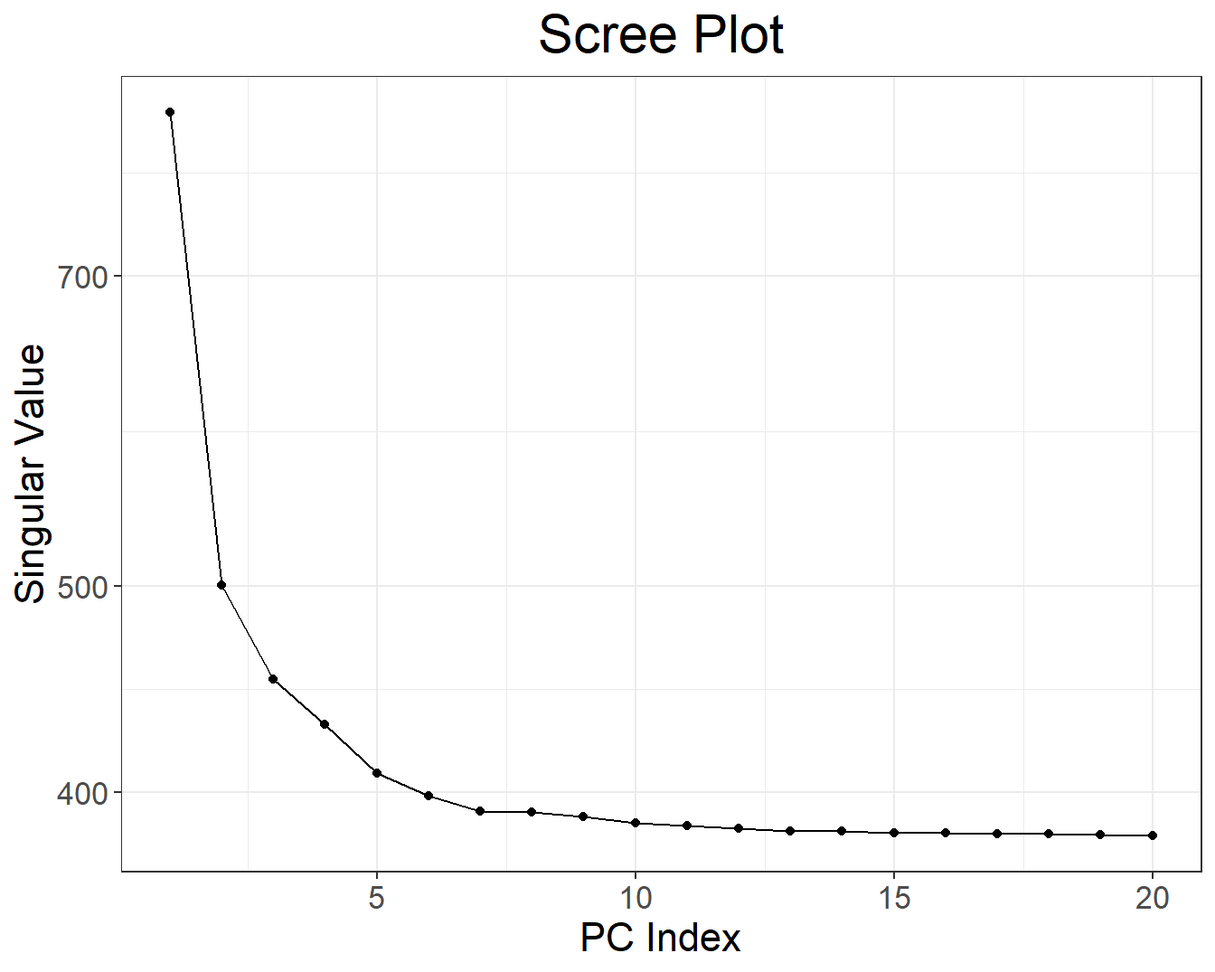
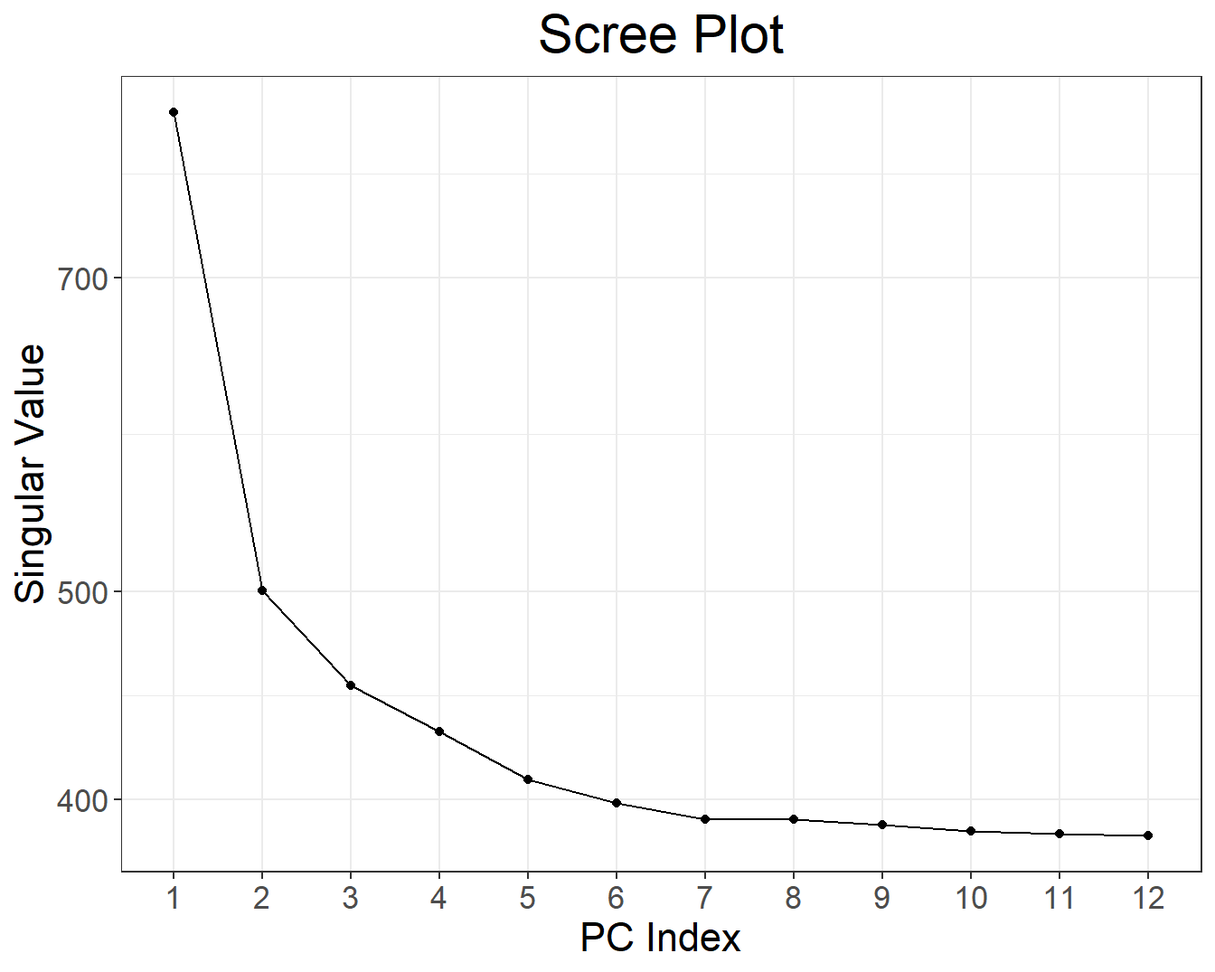
update pop struct chap

diff --git a/docs/population-structure.html b/docs/population-structure.html
@@ -184,7 +184,7 @@ div.csl-indent {
 <ul>
 <li class="chapter" data-level="2.1" data-path="inputs-and-formats.html"><a href="inputs-and-formats.html#in-bigstatsr"><i class="fa fa-check"></i><b>2.1</b> In {bigstatsr}</a></li>
 <li class="chapter" data-level="2.2" data-path="inputs-and-formats.html"><a href="inputs-and-formats.html#in-bigsnpr"><i class="fa fa-check"></i><b>2.2</b> In {bigsnpr}</a></li>
-<li class="chapter" data-level="2.3" data-path="inputs-and-formats.html"><a href="inputs-and-formats.html#getting-an-fbm-or-bigsnp-object"><i class="fa fa-check"></i><b>2.3</b> Getting an FBM or bigSNP object</a></li>
+<li class="chapter" data-level="2.3" data-path="inputs-and-formats.html"><a href="inputs-and-formats.html#getting-FBM"><i class="fa fa-check"></i><b>2.3</b> Getting an FBM or bigSNP object</a></li>
 </ul></li>
 <li class="chapter" data-level="3" data-path="working-with-an-fbm.html"><a href="working-with-an-fbm.html"><i class="fa fa-check"></i><b>3</b> Working with an FBM</a>
 <ul>
@@ -244,70 +244,147 @@ div.csl-indent {
 <p>PCA on the genotype matrix can be used to capture population structure.
 PCA can capture different kinds of structure <span class="citation">(<a href="#ref-prive2020efficient" role="doc-biblioref">Privé, Luu, Blum, McGrath, &amp; Vilhjálmsson, 2020</a>)</span>:</p>
 <ul>
-<li><p>population structure (what we want)</p></li>
-<li><p>LD structure, when there are two many correlated variants and not enough population structure (see <a href="https://privefl.github.io/bigsnpr/articles/how-to-PCA.html">this vignette</a>)</p></li>
-<li><p>relatedness structure, when there are related individuals that can cluster together in later PCs</p></li>
-<li><p>noise, basically just circles when looking at PC scores</p></li>
+<li>population structure (what we want),</li>
+<li>LD structure, when there are two many correlated variants and not enough population structure (see <a href="https://privefl.github.io/bigsnpr/articles/how-to-PCA.html">this vignette</a>),</li>
+<li>relatedness structure, when there are related individuals that can cluster together in later PCs,</li>
+<li>noise, basically just circles when looking at PC scores.</li>
 </ul>
-<p>In <span class="citation"><a href="#ref-prive2017efficient" role="doc-biblioref">Privé, Aschard, Ziyatdinov, &amp; Blum</a> (<a href="#ref-prive2017efficient" role="doc-biblioref">2018</a>)</span>, I have introduced an algorithm to compute PCA for a <code>bigSNP</code> object while accounting for the LD problem via an automatic removing of long-range LD regions.
-In <span class="citation"><a href="#ref-prive2020efficient" role="doc-biblioref">Privé, Luu, Blum, McGrath, &amp; Vilhjálmsson</a> (<a href="#ref-prive2020efficient" role="doc-biblioref">2020</a>)</span>, I have extended the package to be also able to run PCA directly on PLINK bed files with a few missing values, and investigated best practices for PCA in more detail.
-In <span class="citation"><a href="#ref-prive2021high" role="doc-biblioref">Privé et al.</a> (<a href="#ref-prive2021high" role="doc-biblioref">2022</a>)</span>, I have shown how to use PCA for ancestry inference.</p>
-<p>There are many steps to compute properly a PCA analysis, which I will try to detail in the following exercise.</p>
+<p>Population structure is the second main topic of my research work (after polygenic scores).</p>
+<ul>
+<li><p>In <span class="citation"><a href="#ref-prive2017efficient" role="doc-biblioref">Privé, Aschard, Ziyatdinov, &amp; Blum</a> (<a href="#ref-prive2017efficient" role="doc-biblioref">2018</a>)</span>, I introduced an algorithm to compute PCA for a <code>bigSNP</code> object while accounting for the LD problem by using clumping (not pruning, cf. <a href="https://privefl.github.io/bigsnpr/articles/pruning-vs-clumping.html">this vignette</a>) and an <em>automatic</em> removal of long-range LD regions.</p></li>
+<li><p>In <span class="citation"><a href="#ref-prive2020performing" role="doc-biblioref">Privé, Luu, Vilhjálmsson, &amp; Blum</a> (<a href="#ref-prive2020performing" role="doc-biblioref">2020</a>)</span>, I improved an algorithm to detect variants associated with population structure.</p></li>
+<li><p>In <span class="citation"><a href="#ref-prive2020efficient" role="doc-biblioref">Privé, Luu, Blum, McGrath, &amp; Vilhjálmsson</a> (<a href="#ref-prive2020efficient" role="doc-biblioref">2020</a>)</span>, I extended the package to be also able to run PCA directly on PLINK bed files with a small percentage of missing values, and investigated best practices for PCA in more detail.</p></li>
+<li><p>In <span class="citation"><a href="#ref-prive2021high" role="doc-biblioref">Privé et al.</a> (<a href="#ref-prive2021high" role="doc-biblioref">2022</a>)</span> and <span class="citation"><a href="#ref-prive2021using" role="doc-biblioref">Privé</a> (<a href="#ref-prive2021using" role="doc-biblioref">2022</a>)</span>, I showed how to use PCA for ancestry inference, including grouping individuals in homogeneous ancestry groups, and inferring ancestry proportions from allele frequencies only (see <a href="https://privefl.github.io/bigsnpr/articles/ancestry.html">this vignette</a>).</p></li>
+</ul>
 </div>
 <div id="exo-pca" class="section level2 hasAnchor" number="5.2">
 <h2><span class="header-section-number">5.2</span> Exercise: population structure<a href="population-structure.html#exo-pca" class="anchor-section" aria-label="Anchor link to header"></a></h2>
-<p><strong>You can find another example in <a href="https://privefl.github.io/bigsnpr/articles/bedpca.html">this vignette</a>.</strong></p>
+<p>There are many steps to properly perform a PCA, which I will try to detail in the following exercise.
+<strong>You can find another example in <a href="https://privefl.github.io/bigsnpr/articles/bedpca.html">this vignette</a>.</strong></p>
 <p>Let us reuse the data prepared in <a href="preprocessing.html#exo-preprocessing">4.3</a>.</p>
-<p>First, let’s get an idea of the relatedness in the data using</p>
-<div class="sourceCode" id="cb48"><pre class="sourceCode r"><code class="sourceCode r"><span id="cb48-1"><a href="population-structure.html#cb48-1" aria-hidden="true" tabindex="-1"></a><span class="fu">library</span>(bigsnpr)</span>
-<span id="cb48-2"><a href="population-structure.html#cb48-2" aria-hidden="true" tabindex="-1"></a>plink2 <span class="ot">&lt;-</span> <span class="fu">download_plink2</span>(<span class="st">&quot;tmp-data&quot;</span>)</span>
-<span id="cb48-3"><a href="population-structure.html#cb48-3" aria-hidden="true" tabindex="-1"></a>rel <span class="ot">&lt;-</span> <span class="fu">snp_plinkKINGQC</span>(plink2, <span class="st">&quot;tmp-data/GWAS_data_sorted_QC.bed&quot;</span>,</span>
-<span id="cb48-4"><a href="population-structure.html#cb48-4" aria-hidden="true" tabindex="-1"></a>                       <span class="at">thr.king =</span> <span class="dv">2</span><span class="sc">^-</span><span class="fl">4.5</span>, <span class="at">make.bed =</span> <span class="cn">FALSE</span>, <span class="at">ncores =</span> <span class="fu">nb_cores</span>())</span></code></pre></div>
-<div class="sourceCode" id="cb49"><pre class="sourceCode r"><code class="sourceCode r"><span id="cb49-1"><a href="population-structure.html#cb49-1" aria-hidden="true" tabindex="-1"></a><span class="fu">hist</span>(<span class="fu">log2</span>(rel<span class="sc">$</span>KINSHIP), <span class="st">&quot;FD&quot;</span>)</span></code></pre></div>
+<p>First, let us get an idea of the relatedness in the data using</p>
+<div class="sourceCode" id="cb1"><pre class="sourceCode r"><code class="sourceCode r"><span id="cb1-1"><a href="population-structure.html#cb1-1" aria-hidden="true" tabindex="-1"></a><span class="fu">library</span>(bigsnpr)</span></code></pre></div>
+<pre><code>#&gt; Loading required package: bigstatsr</code></pre>
+<div class="sourceCode" id="cb3"><pre class="sourceCode r"><code class="sourceCode r"><span id="cb3-1"><a href="population-structure.html#cb3-1" aria-hidden="true" tabindex="-1"></a>(NCORES <span class="ot">&lt;-</span> <span class="fu">nb_cores</span>())</span>
+<span id="cb3-2"><a href="population-structure.html#cb3-2" aria-hidden="true" tabindex="-1"></a>plink2 <span class="ot">&lt;-</span> <span class="fu">download_plink2</span>(<span class="st">&quot;tmp-data&quot;</span>)</span>
+<span id="cb3-3"><a href="population-structure.html#cb3-3" aria-hidden="true" tabindex="-1"></a>rel <span class="ot">&lt;-</span> <span class="fu">snp_plinkKINGQC</span>(plink2, <span class="st">&quot;tmp-data/GWAS_data_sorted_QC.bed&quot;</span>,</span>
+<span id="cb3-4"><a href="population-structure.html#cb3-4" aria-hidden="true" tabindex="-1"></a>                       <span class="at">thr.king =</span> <span class="dv">2</span><span class="sc">^-</span><span class="fl">4.5</span>, <span class="at">make.bed =</span> <span class="cn">FALSE</span>, <span class="at">ncores =</span> NCORES)</span></code></pre></div>
+<div class="sourceCode" id="cb4"><pre class="sourceCode r"><code class="sourceCode r"><span id="cb4-1"><a href="population-structure.html#cb4-1" aria-hidden="true" tabindex="-1"></a><span class="fu">hist</span>(<span class="fu">log2</span>(rel<span class="sc">$</span>KINSHIP), <span class="st">&quot;FD&quot;</span>)</span></code></pre></div>
 <p><img src="popstruct_files/figure-html/unnamed-chunk-2-1.png" width="70%" style="display: block; margin: auto;" /></p>
 <div class="infobox info">
 <p>When computing relatedness with KING, it may be needed to filter out some variants that are highly associated with population structure, e.g. as performed in the UK Biobank <span class="citation">(<a href="#ref-bycroft2018uk" role="doc-biblioref">Bycroft et al., 2018</a>)</span>. [TODO: also export my code for iPSYCH]</p>
 </div>
-<div class="sourceCode" id="cb50"><pre class="sourceCode r"><code class="sourceCode r"><span id="cb50-1"><a href="population-structure.html#cb50-1" aria-hidden="true" tabindex="-1"></a>obj.bed <span class="ot">&lt;-</span> <span class="fu">bed</span>(<span class="st">&quot;tmp-data/GWAS_data_sorted_QC.bed&quot;</span>)</span>
-<span id="cb50-2"><a href="population-structure.html#cb50-2" aria-hidden="true" tabindex="-1"></a>obj.svd <span class="ot">&lt;-</span> runonce<span class="sc">::</span><span class="fu">save_run</span>(</span>
-<span id="cb50-3"><a href="population-structure.html#cb50-3" aria-hidden="true" tabindex="-1"></a>  <span class="fu">bed_autoSVD</span>(obj.bed, <span class="at">k =</span> <span class="dv">20</span>, <span class="at">ncores =</span> <span class="fu">nb_cores</span>()),</span>
-<span id="cb50-4"><a href="population-structure.html#cb50-4" aria-hidden="true" tabindex="-1"></a>  <span class="at">file =</span> <span class="st">&quot;tmp-data/PCA_GWAS_data.rds&quot;</span>)</span></code></pre></div>
+<p>Relatedness should not be a major issue here. Let us now compute PCs.</p>
+<div class="sourceCode" id="cb5"><pre class="sourceCode r"><code class="sourceCode r"><span id="cb5-1"><a href="population-structure.html#cb5-1" aria-hidden="true" tabindex="-1"></a>obj.bed <span class="ot">&lt;-</span> <span class="fu">bed</span>(<span class="st">&quot;tmp-data/GWAS_data_sorted_QC.bed&quot;</span>)</span>
+<span id="cb5-2"><a href="population-structure.html#cb5-2" aria-hidden="true" tabindex="-1"></a>obj.svd <span class="ot">&lt;-</span> runonce<span class="sc">::</span><span class="fu">save_run</span>(</span>
+<span id="cb5-3"><a href="population-structure.html#cb5-3" aria-hidden="true" tabindex="-1"></a>  <span class="fu">bed_autoSVD</span>(obj.bed, <span class="at">k =</span> <span class="dv">12</span>, <span class="at">ncores =</span> NCORES),</span>
+<span id="cb5-4"><a href="population-structure.html#cb5-4" aria-hidden="true" tabindex="-1"></a>  <span class="at">file =</span> <span class="st">&quot;tmp-data/PCA_GWAS_data.rds&quot;</span>)</span></code></pre></div>
 <pre><code>#&gt;    user  system elapsed 
-#&gt;   19.50    1.03  158.55</code></pre>
-<div class="sourceCode" id="cb52"><pre class="sourceCode r"><code class="sourceCode r"><span id="cb52-1"><a href="population-structure.html#cb52-1" aria-hidden="true" tabindex="-1"></a><span class="fu">plot</span>(obj.svd)</span></code></pre></div>
+#&gt;   19.51    1.51  145.78</code></pre>
+<div class="sourceCode" id="cb7"><pre class="sourceCode r"><code class="sourceCode r"><span id="cb7-1"><a href="population-structure.html#cb7-1" aria-hidden="true" tabindex="-1"></a><span class="fu">plot</span>(obj.svd)</span></code></pre></div>
 <p><img src="popstruct_files/figure-html/unnamed-chunk-4-1.png" width="70%" style="display: block; margin: auto;" /></p>
-<div class="sourceCode" id="cb53"><pre class="sourceCode r"><code class="sourceCode r"><span id="cb53-1"><a href="population-structure.html#cb53-1" aria-hidden="true" tabindex="-1"></a><span class="fu">plot</span>(obj.svd, <span class="at">type =</span> <span class="st">&quot;scores&quot;</span>, <span class="at">scores =</span> <span class="dv">1</span><span class="sc">:</span><span class="dv">8</span>, <span class="at">coeff =</span> <span class="fl">0.6</span>)</span></code></pre></div>
+<div class="sourceCode" id="cb8"><pre class="sourceCode r"><code class="sourceCode r"><span id="cb8-1"><a href="population-structure.html#cb8-1" aria-hidden="true" tabindex="-1"></a><span class="fu">plot</span>(obj.svd, <span class="at">type =</span> <span class="st">&quot;scores&quot;</span>, <span class="at">scores =</span> <span class="dv">1</span><span class="sc">:</span><span class="dv">12</span>, <span class="at">coeff =</span> <span class="fl">0.5</span>)</span></code></pre></div>
 <p><img src="popstruct_files/figure-html/unnamed-chunk-4-2.png" width="70%" style="display: block; margin: auto;" /></p>
-<p>There is a bit of population structure (it seems at least 6 PCs). It would be better if could get a better sense of the ancestry of these individuals; let us project this data to the 1000G data and infer ancestry as described in <span class="citation"><a href="#ref-prive2021high" role="doc-biblioref">Privé et al.</a> (<a href="#ref-prive2021high" role="doc-biblioref">2022</a>)</span>.</p>
-<div class="sourceCode" id="cb54"><pre class="sourceCode r"><code class="sourceCode r"><span id="cb54-1"><a href="population-structure.html#cb54-1" aria-hidden="true" tabindex="-1"></a>bed.ref <span class="ot">&lt;-</span> <span class="fu">bed</span>(<span class="fu">download_1000G</span>(<span class="st">&quot;tmp-data&quot;</span>))</span>
-<span id="cb54-2"><a href="population-structure.html#cb54-2" aria-hidden="true" tabindex="-1"></a>proj <span class="ot">&lt;-</span> runonce<span class="sc">::</span><span class="fu">save_run</span>(</span>
-<span id="cb54-3"><a href="population-structure.html#cb54-3" aria-hidden="true" tabindex="-1"></a>  <span class="fu">bed_projectPCA</span>(bed.ref, obj.bed, <span class="at">k =</span> <span class="dv">25</span>, <span class="at">ncores =</span> <span class="fu">nb_cores</span>()),</span>
-<span id="cb54-4"><a href="population-structure.html#cb54-4" aria-hidden="true" tabindex="-1"></a>  <span class="at">file =</span> <span class="st">&quot;tmp-data/proj-to-1000G.rds&quot;</span>)</span></code></pre></div>
-<pre><code>#&gt;    user  system elapsed 
-#&gt;   43.82    1.42  205.60</code></pre>
-<div class="sourceCode" id="cb56"><pre class="sourceCode r"><code class="sourceCode r"><span id="cb56-1"><a href="population-structure.html#cb56-1" aria-hidden="true" tabindex="-1"></a>PC.ref <span class="ot">&lt;-</span> <span class="fu">predict</span>(proj<span class="sc">$</span>obj.svd.ref)</span>
-<span id="cb56-2"><a href="population-structure.html#cb56-2" aria-hidden="true" tabindex="-1"></a>proj2 <span class="ot">&lt;-</span> proj<span class="sc">$</span>OADP_proj</span>
-<span id="cb56-3"><a href="population-structure.html#cb56-3" aria-hidden="true" tabindex="-1"></a>fam2 <span class="ot">&lt;-</span> bigreadr<span class="sc">::</span><span class="fu">fread2</span>(<span class="fu">sub_bed</span>(bed.ref<span class="sc">$</span>bedfile, <span class="st">&quot;.fam2&quot;</span>))</span></code></pre></div>
-<div class="sourceCode" id="cb57"><pre class="sourceCode r"><code class="sourceCode r"><span id="cb57-1"><a href="population-structure.html#cb57-1" aria-hidden="true" tabindex="-1"></a><span class="fu">library</span>(ggplot2)</span>
-<span id="cb57-2"><a href="population-structure.html#cb57-2" aria-hidden="true" tabindex="-1"></a><span class="fu">source</span>(<span class="st">&quot;https://raw.githubusercontent.com/privefl/paper4-bedpca/master/code/plot_grid2.R&quot;</span>)</span>
-<span id="cb57-3"><a href="population-structure.html#cb57-3" aria-hidden="true" tabindex="-1"></a><span class="fu">plot_grid2</span>(<span class="at">plotlist =</span> <span class="fu">lapply</span>(<span class="dv">1</span><span class="sc">:</span><span class="dv">9</span>, <span class="cf">function</span>(k) {</span>
-<span id="cb57-4"><a href="population-structure.html#cb57-4" aria-hidden="true" tabindex="-1"></a>  k1 <span class="ot">&lt;-</span> <span class="dv">2</span> <span class="sc">*</span> k <span class="sc">-</span> <span class="dv">1</span></span>
-<span id="cb57-5"><a href="population-structure.html#cb57-5" aria-hidden="true" tabindex="-1"></a>  k2 <span class="ot">&lt;-</span> <span class="dv">2</span> <span class="sc">*</span> k</span>
-<span id="cb57-6"><a href="population-structure.html#cb57-6" aria-hidden="true" tabindex="-1"></a>  <span class="fu">qplot</span>(PC.ref[, k1], PC.ref[, k2], <span class="at">color =</span> fam2<span class="sc">$</span><span class="st">`</span><span class="at">Super Population</span><span class="st">`</span>, <span class="at">size =</span> <span class="fu">I</span>(<span class="dv">2</span>)) <span class="sc">+</span></span>
-<span id="cb57-7"><a href="population-structure.html#cb57-7" aria-hidden="true" tabindex="-1"></a>    <span class="fu">geom_point</span>(<span class="fu">aes</span>(proj2[, k1], proj2[, k2]), <span class="at">color =</span> <span class="st">&quot;black&quot;</span>, <span class="at">alpha =</span> <span class="fl">0.1</span>) <span class="sc">+</span></span>
-<span id="cb57-8"><a href="population-structure.html#cb57-8" aria-hidden="true" tabindex="-1"></a>    <span class="fu">theme_bigstatsr</span>(<span class="fl">0.5</span>) <span class="sc">+</span></span>
-<span id="cb57-9"><a href="population-structure.html#cb57-9" aria-hidden="true" tabindex="-1"></a>    <span class="fu">labs</span>(<span class="at">x =</span> <span class="fu">paste0</span>(<span class="st">&quot;PC&quot;</span>, k1), <span class="at">y =</span> <span class="fu">paste0</span>(<span class="st">&quot;PC&quot;</span>, k2), <span class="at">color =</span> <span class="st">&quot;Ref Pop&quot;</span>) <span class="sc">+</span></span>
-<span id="cb57-10"><a href="population-structure.html#cb57-10" aria-hidden="true" tabindex="-1"></a>    <span class="fu">coord_equal</span>()</span>
-<span id="cb57-11"><a href="population-structure.html#cb57-11" aria-hidden="true" tabindex="-1"></a>}), <span class="at">nrow =</span> <span class="dv">3</span>)</span></code></pre></div>
-<p><img src="popstruct_files/figure-html/unnamed-chunk-7-1.png" width="80%" style="display: block; margin: auto;" /></p>
-<p>These are clearly mostly European individuals.</p>
-<div class="sourceCode" id="cb58"><pre class="sourceCode r"><code class="sourceCode r"><span id="cb58-1"><a href="population-structure.html#cb58-1" aria-hidden="true" tabindex="-1"></a>ldist <span class="ot">&lt;-</span> <span class="fu">log</span>(bigutilsr<span class="sc">::</span><span class="fu">dist_ogk</span>(proj2))</span>
-<span id="cb58-2"><a href="population-structure.html#cb58-2" aria-hidden="true" tabindex="-1"></a>lims <span class="ot">&lt;-</span> bigutilsr<span class="sc">::</span><span class="fu">hist_out</span>(ldist)<span class="sc">$</span>lim</span>
-<span id="cb58-3"><a href="population-structure.html#cb58-3" aria-hidden="true" tabindex="-1"></a><span class="fu">hist</span>(ldist, <span class="st">&quot;FD&quot;</span>); <span class="fu">abline</span>(<span class="at">v =</span> lims, <span class="at">col =</span> <span class="st">&quot;red&quot;</span>) </span></code></pre></div>
-<p><img src="popstruct_files/figure-html/unnamed-chunk-8-1.png" width="70%" style="display: block; margin: auto;" /></p>
-<div class="sourceCode" id="cb59"><pre class="sourceCode r"><code class="sourceCode r"><span id="cb59-1"><a href="population-structure.html#cb59-1" aria-hidden="true" tabindex="-1"></a><span class="fu">sum</span>(ldist <span class="sc">&gt;</span> lims[<span class="dv">2</span>])</span></code></pre></div>
-<pre><code>#&gt; [1] 4</code></pre>
-<p>There are 4 outlier individuals that you could remove.</p>
+<p>There is some population structure (maybe up to 6 PCs). You should also check loadings to make sure there is no LD structure (peaks on loadings):</p>
+<div class="sourceCode" id="cb9"><pre class="sourceCode r"><code class="sourceCode r"><span id="cb9-1"><a href="population-structure.html#cb9-1" aria-hidden="true" tabindex="-1"></a><span class="fu">plot</span>(obj.svd, <span class="at">type =</span> <span class="st">&quot;loadings&quot;</span>, <span class="at">loadings =</span> <span class="dv">1</span><span class="sc">:</span><span class="dv">8</span>, <span class="at">coeff =</span> <span class="fl">0.5</span>)</span></code></pre></div>
+<p><img src="popstruct_files/figure-html/unnamed-chunk-5-1.png" width="70%" style="display: block; margin: auto;" /></p>
+<p>No peaks, but loadings of PC4 and PC5 are a bit odd.</p>
+<p>If you expect the individuals to mostly come from one population, you can simply use a robust distance to identify a homogeneous subset of individuals, then look at the histogram of log-distances to choose a threshold based on visual inspection (here I would probably choose 4.5).</p>
+<div class="sourceCode" id="cb10"><pre class="sourceCode r"><code class="sourceCode r"><span id="cb10-1"><a href="population-structure.html#cb10-1" aria-hidden="true" tabindex="-1"></a>PC <span class="ot">&lt;-</span> <span class="fu">predict</span>(obj.svd)</span>
+<span id="cb10-2"><a href="population-structure.html#cb10-2" aria-hidden="true" tabindex="-1"></a>ldist <span class="ot">&lt;-</span> <span class="fu">log</span>(bigutilsr<span class="sc">::</span><span class="fu">dist_ogk</span>(PC))</span>
+<span id="cb10-3"><a href="population-structure.html#cb10-3" aria-hidden="true" tabindex="-1"></a><span class="fu">hist</span>(ldist, <span class="st">&quot;FD&quot;</span>)</span></code></pre></div>
+<p><img src="popstruct_files/figure-html/unnamed-chunk-6-1.png" width="70%" style="display: block; margin: auto;" /></p>
+<div class="sourceCode" id="cb11"><pre class="sourceCode r"><code class="sourceCode r"><span id="cb11-1"><a href="population-structure.html#cb11-1" aria-hidden="true" tabindex="-1"></a><span class="fu">library</span>(ggplot2)</span>
+<span id="cb11-2"><a href="population-structure.html#cb11-2" aria-hidden="true" tabindex="-1"></a><span class="fu">source</span>(<span class="st">&quot;https://raw.githubusercontent.com/privefl/paper4-bedpca/master/code/plot_grid2.R&quot;</span>)</span>
+<span id="cb11-3"><a href="population-structure.html#cb11-3" aria-hidden="true" tabindex="-1"></a></span>
+<span id="cb11-4"><a href="population-structure.html#cb11-4" aria-hidden="true" tabindex="-1"></a><span class="fu">plot_grid2</span>(<span class="at">plotlist =</span> <span class="fu">lapply</span>(<span class="dv">1</span><span class="sc">:</span><span class="dv">4</span>, <span class="cf">function</span>(k) {</span>
+<span id="cb11-5"><a href="population-structure.html#cb11-5" aria-hidden="true" tabindex="-1"></a>  k1 <span class="ot">&lt;-</span> <span class="dv">2</span> <span class="sc">*</span> k <span class="sc">-</span> <span class="dv">1</span></span>
+<span id="cb11-6"><a href="population-structure.html#cb11-6" aria-hidden="true" tabindex="-1"></a>  k2 <span class="ot">&lt;-</span> <span class="dv">2</span> <span class="sc">*</span> k</span>
+<span id="cb11-7"><a href="population-structure.html#cb11-7" aria-hidden="true" tabindex="-1"></a>  <span class="fu">qplot</span>(PC[, k1], PC[, k2], <span class="at">color =</span> ldist, <span class="at">size =</span> <span class="fu">I</span>(<span class="dv">2</span>)) <span class="sc">+</span></span>
+<span id="cb11-8"><a href="population-structure.html#cb11-8" aria-hidden="true" tabindex="-1"></a>    <span class="fu">scale_color_viridis_c</span>() <span class="sc">+</span></span>
+<span id="cb11-9"><a href="population-structure.html#cb11-9" aria-hidden="true" tabindex="-1"></a>    <span class="fu">theme_bigstatsr</span>(<span class="fl">0.6</span>) <span class="sc">+</span></span>
+<span id="cb11-10"><a href="population-structure.html#cb11-10" aria-hidden="true" tabindex="-1"></a>    <span class="fu">labs</span>(<span class="at">x =</span> <span class="fu">paste0</span>(<span class="st">&quot;PC&quot;</span>, k1), <span class="at">y =</span> <span class="fu">paste0</span>(<span class="st">&quot;PC&quot;</span>, k2), <span class="at">color =</span> <span class="st">&quot;log-distance&quot;</span>) <span class="sc">+</span></span>
+<span id="cb11-11"><a href="population-structure.html#cb11-11" aria-hidden="true" tabindex="-1"></a>    <span class="fu">coord_equal</span>()</span>
+<span id="cb11-12"><a href="population-structure.html#cb11-12" aria-hidden="true" tabindex="-1"></a>}), <span class="at">nrow =</span> <span class="dv">2</span>, <span class="at">legend_ratio =</span> <span class="fl">0.2</span>, <span class="at">title_ratio =</span> <span class="dv">0</span>)</span></code></pre></div>
+<p><img src="popstruct_files/figure-html/unnamed-chunk-7-1.png" width="70%" style="display: block; margin: auto;" /></p>
+<p>It would be nice if we could get a better sense of the ancestry of these individuals.
+To achieve this, we can project this data onto the PCA space of many known population groups defined in <span class="citation"><a href="#ref-prive2021using" role="doc-biblioref">Privé</a> (<a href="#ref-prive2021using" role="doc-biblioref">2022</a>)</span>.</p>
+<div class="sourceCode" id="cb12"><pre class="sourceCode r"><code class="sourceCode r"><span id="cb12-1"><a href="population-structure.html#cb12-1" aria-hidden="true" tabindex="-1"></a>DIR <span class="ot">&lt;-</span> <span class="st">&quot;../datasets&quot;</span>  <span class="co"># you can replace by e.g. &quot;data&quot; or &quot;tmp-data&quot;</span></span>
+<span id="cb12-2"><a href="population-structure.html#cb12-2" aria-hidden="true" tabindex="-1"></a></span>
+<span id="cb12-3"><a href="population-structure.html#cb12-3" aria-hidden="true" tabindex="-1"></a><span class="co"># /!\ This downloads 850 Mb (each)</span></span>
+<span id="cb12-4"><a href="population-structure.html#cb12-4" aria-hidden="true" tabindex="-1"></a>all_freq <span class="ot">&lt;-</span> bigreadr<span class="sc">::</span><span class="fu">fread2</span>(</span>
+<span id="cb12-5"><a href="population-structure.html#cb12-5" aria-hidden="true" tabindex="-1"></a>  runonce<span class="sc">::</span><span class="fu">download_file</span>(<span class="st">&quot;https://figshare.com/ndownloader/files/31620968&quot;</span>,</span>
+<span id="cb12-6"><a href="population-structure.html#cb12-6" aria-hidden="true" tabindex="-1"></a>                         <span class="at">dir =</span> DIR, <span class="at">fname =</span> <span class="st">&quot;ref_freqs.csv.gz&quot;</span>))</span>
+<span id="cb12-7"><a href="population-structure.html#cb12-7" aria-hidden="true" tabindex="-1"></a>projection <span class="ot">&lt;-</span> bigreadr<span class="sc">::</span><span class="fu">fread2</span>(</span>
+<span id="cb12-8"><a href="population-structure.html#cb12-8" aria-hidden="true" tabindex="-1"></a>  runonce<span class="sc">::</span><span class="fu">download_file</span>(<span class="st">&quot;https://figshare.com/ndownloader/files/31620953&quot;</span>,</span>
+<span id="cb12-9"><a href="population-structure.html#cb12-9" aria-hidden="true" tabindex="-1"></a>                         <span class="at">dir =</span> DIR, <span class="at">fname =</span> <span class="st">&quot;projection.csv.gz&quot;</span>))</span>
+<span id="cb12-10"><a href="population-structure.html#cb12-10" aria-hidden="true" tabindex="-1"></a></span>
+<span id="cb12-11"><a href="population-structure.html#cb12-11" aria-hidden="true" tabindex="-1"></a>correction <span class="ot">&lt;-</span> <span class="fu">c</span>(<span class="dv">1</span>, <span class="dv">1</span>, <span class="dv">1</span>, <span class="fl">1.008</span>, <span class="fl">1.021</span>, <span class="fl">1.034</span>, <span class="fl">1.052</span>, <span class="fl">1.074</span>, <span class="fl">1.099</span>,</span>
+<span id="cb12-12"><a href="population-structure.html#cb12-12" aria-hidden="true" tabindex="-1"></a>                <span class="fl">1.123</span>, <span class="fl">1.15</span>, <span class="fl">1.195</span>, <span class="fl">1.256</span>, <span class="fl">1.321</span>, <span class="fl">1.382</span>, <span class="fl">1.443</span>)</span></code></pre></div>
+<div class="sourceCode" id="cb13"><pre class="sourceCode r"><code class="sourceCode r"><span id="cb13-1"><a href="population-structure.html#cb13-1" aria-hidden="true" tabindex="-1"></a><span class="fu">library</span>(dplyr)</span>
+<span id="cb13-2"><a href="population-structure.html#cb13-2" aria-hidden="true" tabindex="-1"></a>matched <span class="ot">&lt;-</span> obj.bed<span class="sc">$</span>map <span class="sc">%&gt;%</span></span>
+<span id="cb13-3"><a href="population-structure.html#cb13-3" aria-hidden="true" tabindex="-1"></a>  <span class="fu">transmute</span>(<span class="at">chr =</span> chromosome, <span class="at">pos =</span> physical.pos, <span class="at">a1 =</span> allele1, <span class="at">a0 =</span> allele2) <span class="sc">%&gt;%</span> </span>
+<span id="cb13-4"><a href="population-structure.html#cb13-4" aria-hidden="true" tabindex="-1"></a>  <span class="fu">mutate</span>(<span class="at">beta =</span> <span class="dv">1</span>) <span class="sc">%&gt;%</span></span>
+<span id="cb13-5"><a href="population-structure.html#cb13-5" aria-hidden="true" tabindex="-1"></a>  <span class="fu">snp_match</span>(all_freq[<span class="dv">1</span><span class="sc">:</span><span class="dv">5</span>]) <span class="sc">%&gt;%</span></span>
+<span id="cb13-6"><a href="population-structure.html#cb13-6" aria-hidden="true" tabindex="-1"></a>  <span class="fu">print</span>()</span></code></pre></div>
+<pre><code>#&gt;   chr     pos a0 a1 beta _NUM_ID_.ss       rsid _NUM_ID_
+#&gt; 1   1  752566  G  A   -1           2  rs3094315       39
+#&gt; 2   1  785989  T  C   -1           4  rs2980300      102
+#&gt; 3   1  798959  G  A    1           5 rs11240777      128
+#&gt; 4   1  947034  G  A   -1           6  rs2465126      534
+#&gt; 5   1  949608  G  A    1           7     rs1921      539
+#&gt; 6   1 1018704  A  G   -1           8  rs9442372      666
+#&gt;  [ reached &#39;max&#39; / getOption(&quot;max.print&quot;) -- omitted 301150 rows ]</code></pre>
+<div class="sourceCode" id="cb15"><pre class="sourceCode r"><code class="sourceCode r"><span id="cb15-1"><a href="population-structure.html#cb15-1" aria-hidden="true" tabindex="-1"></a><span class="co"># further subsetting on missing values</span></span>
+<span id="cb15-2"><a href="population-structure.html#cb15-2" aria-hidden="true" tabindex="-1"></a>counts <span class="ot">&lt;-</span> <span class="fu">bed_counts</span>(obj.bed, <span class="at">ind.col =</span> matched<span class="sc">$</span><span class="st">`</span><span class="at">_NUM_ID_.ss</span><span class="st">`</span>, <span class="at">ncores =</span> NCORES)</span>
+<span id="cb15-3"><a href="population-structure.html#cb15-3" aria-hidden="true" tabindex="-1"></a><span class="co"># hist(nb_na &lt;- counts[4, ])</span></span>
+<span id="cb15-4"><a href="population-structure.html#cb15-4" aria-hidden="true" tabindex="-1"></a>ind <span class="ot">&lt;-</span> <span class="fu">which</span>(counts[<span class="dv">4</span>, ] <span class="sc">&lt;</span> (<span class="fu">nrow</span>(obj.bed) <span class="sc">*</span> <span class="fl">0.05</span>))        </span>
+<span id="cb15-5"><a href="population-structure.html#cb15-5" aria-hidden="true" tabindex="-1"></a></span>
+<span id="cb15-6"><a href="population-structure.html#cb15-6" aria-hidden="true" tabindex="-1"></a><span class="co"># project individuals (divided by 2) onto the PC space</span></span>
+<span id="cb15-7"><a href="population-structure.html#cb15-7" aria-hidden="true" tabindex="-1"></a>PROJ <span class="ot">&lt;-</span> <span class="fu">as.matrix</span>(projection[matched<span class="sc">$</span><span class="st">`</span><span class="at">_NUM_ID_</span><span class="st">`</span>[ind], <span class="sc">-</span>(<span class="dv">1</span><span class="sc">:</span><span class="dv">5</span>)])</span>
+<span id="cb15-8"><a href="population-structure.html#cb15-8" aria-hidden="true" tabindex="-1"></a>all_proj <span class="ot">&lt;-</span> <span class="fu">apply</span>(<span class="fu">sweep</span>(PROJ, <span class="dv">2</span>, correction <span class="sc">/</span> <span class="dv">2</span>, <span class="st">&#39;*&#39;</span>), <span class="dv">2</span>, <span class="cf">function</span>(x) {</span>
+<span id="cb15-9"><a href="population-structure.html#cb15-9" aria-hidden="true" tabindex="-1"></a>  <span class="fu">bed_prodVec</span>(obj.bed, x, <span class="at">ind.col =</span> matched<span class="sc">$</span><span class="st">`</span><span class="at">_NUM_ID_.ss</span><span class="st">`</span>[ind], <span class="at">ncores =</span> NCORES,</span>
+<span id="cb15-10"><a href="population-structure.html#cb15-10" aria-hidden="true" tabindex="-1"></a>              <span class="co"># scaling to get G if beta = 1 and (2 - G) if beta = -1</span></span>
+<span id="cb15-11"><a href="population-structure.html#cb15-11" aria-hidden="true" tabindex="-1"></a>              <span class="at">center =</span> <span class="dv">1</span> <span class="sc">-</span> matched<span class="sc">$</span>beta[ind],</span>
+<span id="cb15-12"><a href="population-structure.html#cb15-12" aria-hidden="true" tabindex="-1"></a>              <span class="at">scale =</span> matched<span class="sc">$</span>beta[ind])</span>
+<span id="cb15-13"><a href="population-structure.html#cb15-13" aria-hidden="true" tabindex="-1"></a>})</span></code></pre></div>
+<p>We can then assign individuals to the closest center:</p>
+<div class="sourceCode" id="cb16"><pre class="sourceCode r"><code class="sourceCode r"><span id="cb16-1"><a href="population-structure.html#cb16-1" aria-hidden="true" tabindex="-1"></a>all_centers <span class="ot">&lt;-</span> <span class="fu">crossprod</span>(<span class="fu">as.matrix</span>(all_freq[matched<span class="sc">$</span><span class="st">`</span><span class="at">_NUM_ID_</span><span class="st">`</span>[ind], <span class="sc">-</span>(<span class="dv">1</span><span class="sc">:</span><span class="dv">5</span>)]), PROJ)</span>
+<span id="cb16-2"><a href="population-structure.html#cb16-2" aria-hidden="true" tabindex="-1"></a>all_sq_dist <span class="ot">&lt;-</span> <span class="fu">apply</span>(all_centers, <span class="dv">1</span>, <span class="cf">function</span>(one_center) {</span>
+<span id="cb16-3"><a href="population-structure.html#cb16-3" aria-hidden="true" tabindex="-1"></a>  <span class="fu">rowSums</span>(<span class="fu">sweep</span>(all_proj, <span class="dv">2</span>, one_center, <span class="st">&#39;-&#39;</span>)<span class="sc">^</span><span class="dv">2</span>)</span>
+<span id="cb16-4"><a href="population-structure.html#cb16-4" aria-hidden="true" tabindex="-1"></a>})</span>
+<span id="cb16-5"><a href="population-structure.html#cb16-5" aria-hidden="true" tabindex="-1"></a></span>
+<span id="cb16-6"><a href="population-structure.html#cb16-6" aria-hidden="true" tabindex="-1"></a>THR <span class="ot">&lt;-</span> <span class="fl">0.005</span>  <span class="co"># you can adjust this threshold</span></span>
+<span id="cb16-7"><a href="population-structure.html#cb16-7" aria-hidden="true" tabindex="-1"></a>thr_sq_dist <span class="ot">&lt;-</span> <span class="fu">max</span>(<span class="fu">dist</span>(all_centers)<span class="sc">^</span><span class="dv">2</span>) <span class="sc">*</span> THR <span class="sc">/</span> <span class="fl">0.16</span></span>
+<span id="cb16-8"><a href="population-structure.html#cb16-8" aria-hidden="true" tabindex="-1"></a></span>
+<span id="cb16-9"><a href="population-structure.html#cb16-9" aria-hidden="true" tabindex="-1"></a>group <span class="ot">&lt;-</span> <span class="fu">colnames</span>(all_freq)[<span class="sc">-</span>(<span class="dv">1</span><span class="sc">:</span><span class="dv">5</span>)]</span>
+<span id="cb16-10"><a href="population-structure.html#cb16-10" aria-hidden="true" tabindex="-1"></a>group[group <span class="sc">%in%</span> <span class="fu">c</span>(<span class="st">&quot;Scandinavia&quot;</span>, <span class="st">&quot;United Kingdom&quot;</span>, <span class="st">&quot;Ireland&quot;</span>)]   <span class="ot">&lt;-</span> <span class="st">&quot;Europe (North West)&quot;</span></span>
+<span id="cb16-11"><a href="population-structure.html#cb16-11" aria-hidden="true" tabindex="-1"></a>group[group <span class="sc">%in%</span> <span class="fu">c</span>(<span class="st">&quot;Europe (South East)&quot;</span>, <span class="st">&quot;Europe (North East)&quot;</span>)] <span class="ot">&lt;-</span> <span class="st">&quot;Europe (East)&quot;</span></span>
+<span id="cb16-12"><a href="population-structure.html#cb16-12" aria-hidden="true" tabindex="-1"></a></span>
+<span id="cb16-13"><a href="population-structure.html#cb16-13" aria-hidden="true" tabindex="-1"></a>cluster <span class="ot">&lt;-</span> group[</span>
+<span id="cb16-14"><a href="population-structure.html#cb16-14" aria-hidden="true" tabindex="-1"></a>  <span class="fu">apply</span>(all_sq_dist, <span class="dv">1</span>, <span class="cf">function</span>(x) {</span>
+<span id="cb16-15"><a href="population-structure.html#cb16-15" aria-hidden="true" tabindex="-1"></a>    ind <span class="ot">&lt;-</span> <span class="fu">which.min</span>(x)</span>
+<span id="cb16-16"><a href="population-structure.html#cb16-16" aria-hidden="true" tabindex="-1"></a>    <span class="cf">if</span> (x[ind] <span class="sc">&lt;</span> thr_sq_dist) ind <span class="cf">else</span> <span class="cn">NA</span></span>
+<span id="cb16-17"><a href="population-structure.html#cb16-17" aria-hidden="true" tabindex="-1"></a>  })</span>
+<span id="cb16-18"><a href="population-structure.html#cb16-18" aria-hidden="true" tabindex="-1"></a>]</span>
+<span id="cb16-19"><a href="population-structure.html#cb16-19" aria-hidden="true" tabindex="-1"></a></span>
+<span id="cb16-20"><a href="population-structure.html#cb16-20" aria-hidden="true" tabindex="-1"></a><span class="fu">table</span>(cluster, <span class="at">exclude =</span> <span class="cn">NULL</span>)  <span class="co"># no NA -&gt; all assigned</span></span></code></pre></div>
+<pre><code>#&gt; cluster
+#&gt;           Ashkenazi       Europe (East) Europe (North West) 
+#&gt;                 111                 148                 873 
+#&gt; Europe (South West)               Italy         Middle East 
+#&gt;                  46                 219                   4</code></pre>
+<div class="sourceCode" id="cb18"><pre class="sourceCode r"><code class="sourceCode r"><span id="cb18-1"><a href="population-structure.html#cb18-1" aria-hidden="true" tabindex="-1"></a><span class="fu">plot_grid2</span>(<span class="at">plotlist =</span> <span class="fu">lapply</span>(<span class="dv">1</span><span class="sc">:</span><span class="dv">4</span>, <span class="cf">function</span>(k) {</span>
+<span id="cb18-2"><a href="population-structure.html#cb18-2" aria-hidden="true" tabindex="-1"></a>  k1 <span class="ot">&lt;-</span> <span class="dv">2</span> <span class="sc">*</span> k <span class="sc">-</span> <span class="dv">1</span></span>
+<span id="cb18-3"><a href="population-structure.html#cb18-3" aria-hidden="true" tabindex="-1"></a>  k2 <span class="ot">&lt;-</span> <span class="dv">2</span> <span class="sc">*</span> k</span>
+<span id="cb18-4"><a href="population-structure.html#cb18-4" aria-hidden="true" tabindex="-1"></a>  <span class="fu">qplot</span>(PC[, k1], PC[, k2], <span class="at">color =</span> cluster, <span class="at">size =</span> <span class="fu">I</span>(<span class="dv">2</span>)) <span class="sc">+</span></span>
+<span id="cb18-5"><a href="population-structure.html#cb18-5" aria-hidden="true" tabindex="-1"></a>    <span class="fu">theme_bigstatsr</span>(<span class="fl">0.6</span>) <span class="sc">+</span></span>
+<span id="cb18-6"><a href="population-structure.html#cb18-6" aria-hidden="true" tabindex="-1"></a>    <span class="fu">labs</span>(<span class="at">x =</span> <span class="fu">paste0</span>(<span class="st">&quot;PC&quot;</span>, k1), <span class="at">y =</span> <span class="fu">paste0</span>(<span class="st">&quot;PC&quot;</span>, k2), <span class="at">color =</span> <span class="st">&quot;Assigned</span><span class="sc">\n</span><span class="st">population&quot;</span>) <span class="sc">+</span></span>
+<span id="cb18-7"><a href="population-structure.html#cb18-7" aria-hidden="true" tabindex="-1"></a>    <span class="fu">coord_equal</span>()</span>
+<span id="cb18-8"><a href="population-structure.html#cb18-8" aria-hidden="true" tabindex="-1"></a>}), <span class="at">nrow =</span> <span class="dv">2</span>, <span class="at">legend_ratio =</span> <span class="fl">0.25</span>, <span class="at">title_ratio =</span> <span class="dv">0</span>)</span></code></pre></div>
+<p><img src="popstruct_files/figure-html/unnamed-chunk-11-1.png" width="70%" style="display: block; margin: auto;" /></p>
+<p>These are mostly European individuals.
+PC4-PC6 are definitively a bit odd.</p>
 
 </div>
 </div>
@@ -315,6 +392,9 @@ In <span class="citation"><a href="#ref-prive2021high" role="doc-biblioref">Priv
 <div id="refs" class="references csl-bib-body hanging-indent" line-spacing="2">
 <div id="ref-bycroft2018uk" class="csl-entry">
 Bycroft, C., Freeman, C., Petkova, D., Band, G., Elliott, L.T., Sharp, K., … others. (2018). The <span>UK Biobank</span> resource with deep phenotyping and genomic data. <em>Nature</em>, <em>562</em>, 203–209.
+</div>
+<div id="ref-prive2021using" class="csl-entry">
+Privé, F. (2022). <span class="nocase">Using the UK Biobank as a global reference of worldwide populations: application to measuring ancestry diversity from GWAS summary statistics</span>. <em>Bioinformatics</em>, <em>38</em>, 3477–3480.
 </div>
 <div id="ref-prive2021high" class="csl-entry">
 Privé, F., Aschard, H., Carmi, S., Folkersen, L., Hoggart, C., O’Reilly, P.F., &amp; Vilhjálmsson, B.J. (2022). Portability of 245 polygenic scores when derived from the <span>UK Biobank</span> and applied to 9 ancestry groups from the same cohort. <em>The American Journal of Human Genetics</em>, <em>109</em>, 12–23.
@@ -324,6 +404,9 @@ Privé, F., Aschard, H., Ziyatdinov, A., &amp; Blum, M.G.B. (2018). Efficient an
 </div>
 <div id="ref-prive2020efficient" class="csl-entry">
 Privé, F., Luu, K., Blum, M.G., McGrath, J.J., &amp; Vilhjálmsson, B.J. (2020). Efficient toolkit implementing best practices for principal component analysis of population genetic data. <em>Bioinformatics</em>, <em>36</em>, 4449–4457.
+</div>
+<div id="ref-prive2020performing" class="csl-entry">
+Privé, F., Luu, K., Vilhjálmsson, B.J., &amp; Blum, M.G. (2020). Performing highly efficient genome scans for local adaptation with <span>R</span> package pcadapt version 4. <em>Molecular Biology and Evolution</em>, <em>37</em>, 2153–2154.
 </div>
 </div>
             </section>
@@ -386,20 +469,6 @@ gitbook.start({
 });
 </script>
 
-<!-- dynamically load mathjax for compatibility with self-contained -->
-<script>
-  (function () {
-    var script = document.createElement("script");
-    script.type = "text/javascript";
-    var src = "true";
-    if (src === "" || src === "true") src = "https://cdnjs.cloudflare.com/ajax/libs/mathjax/2.7.9/latest.js?config=TeX-MML-AM_CHTML";
-    if (location.protocol !== "file:")
-      if (/^https?:/.test(src))
-        src = src.replace(/^https?:/, '');
-    script.src = src;
-    document.getElementsByTagName("head")[0].appendChild(script);
-  })();
-</script>
 </body>
 
 </html>
